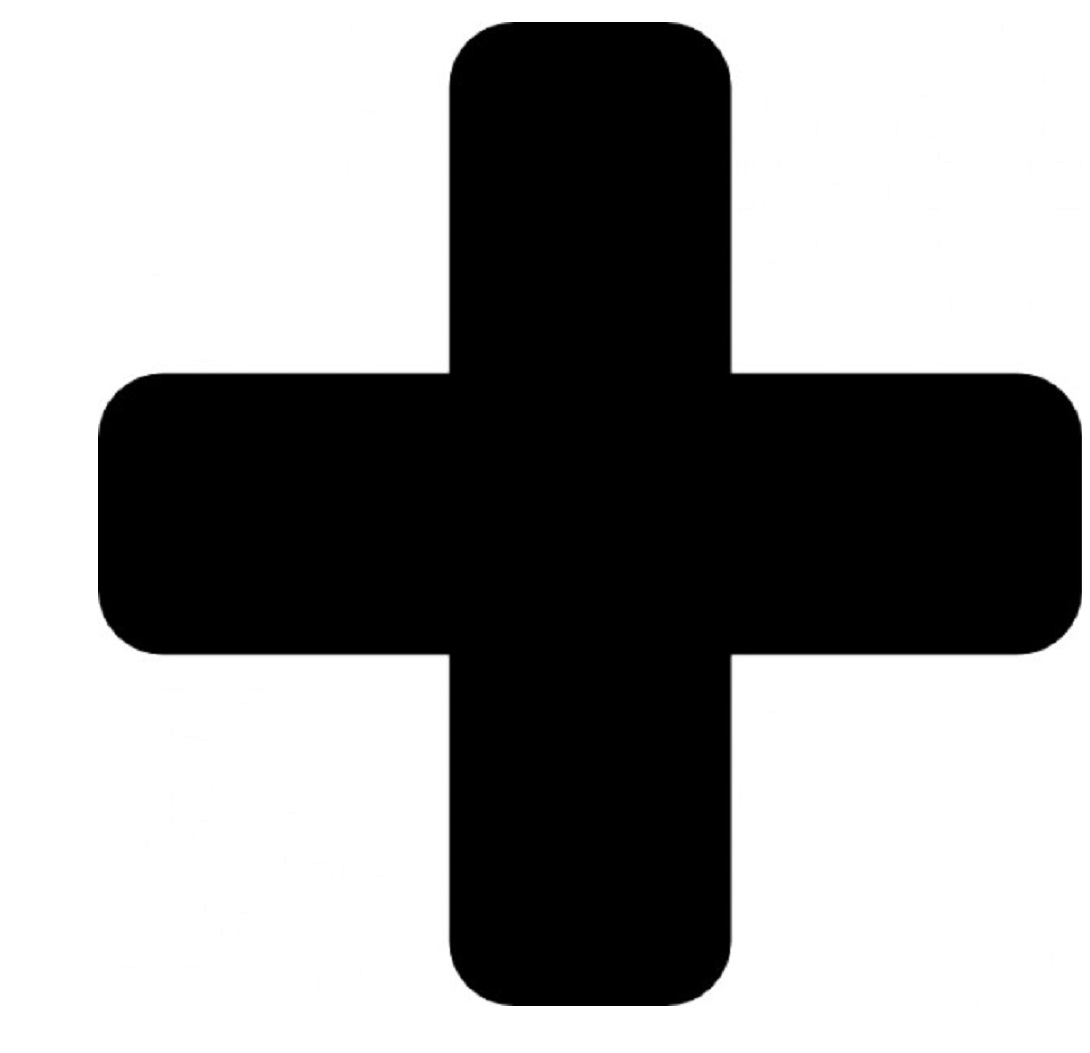
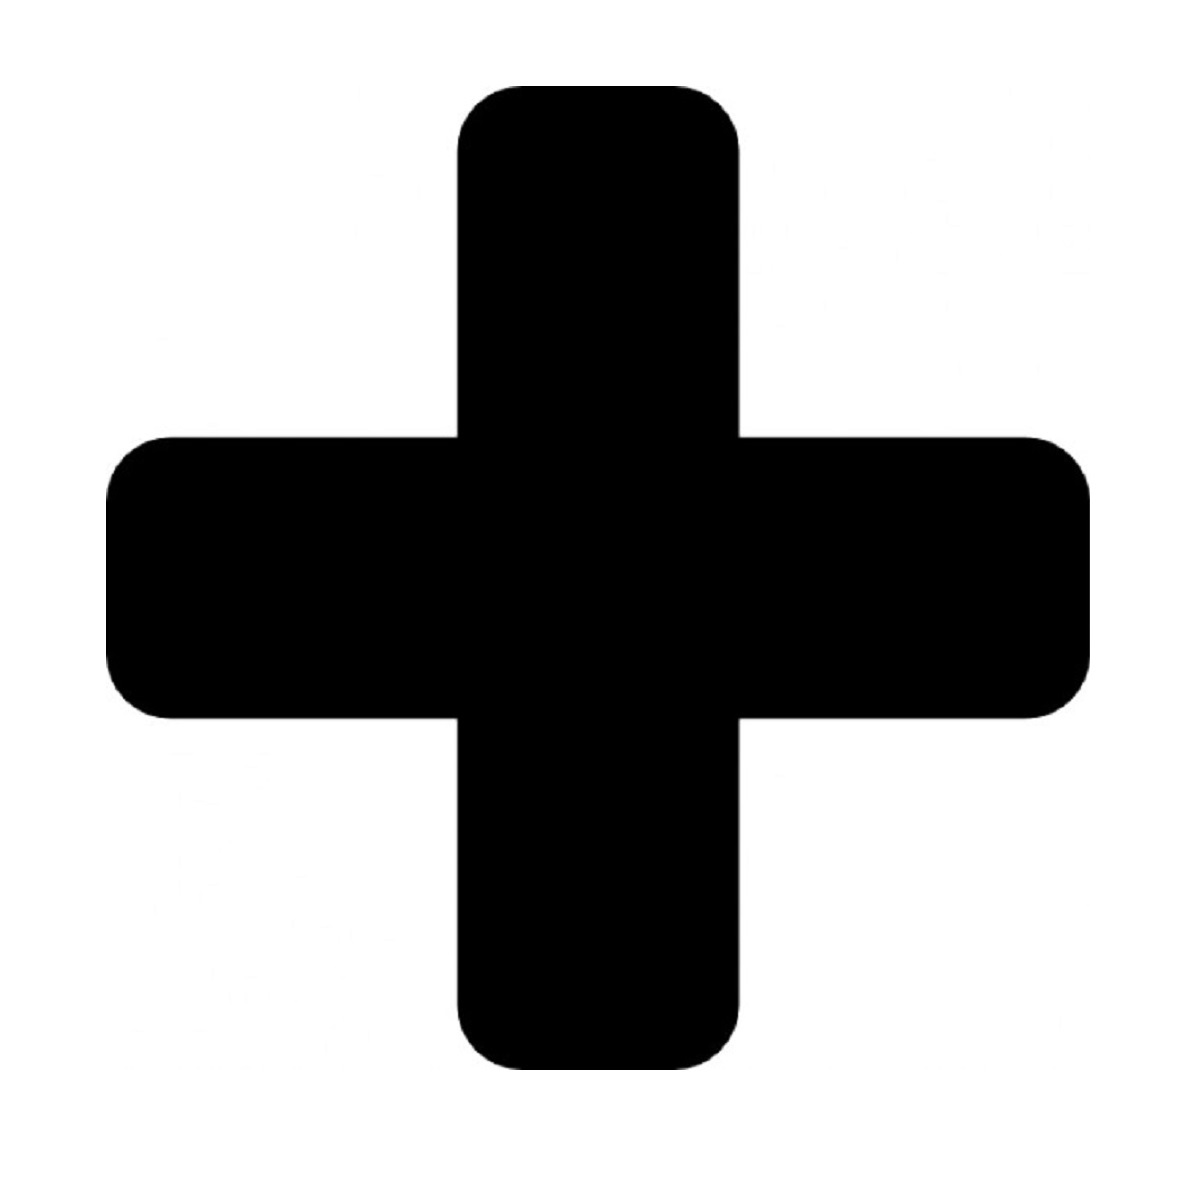
Made images to center inside the card div, plus sign now appears regardless of javascript

Changed region(s): [[0.0936, 0.0, 0.9982, 0.9725]]

diff --git a/online_game_store/ui/templates/ui/gameview.html b/online_game_store/ui/templates/ui/gameview.html
@@ -1,6 +1,22 @@
 {% load staticfiles %}
-<div id="gamesDiv"></div>
+{% static "" as baseUrl %}
+
+<div id="gamesDiv">
+  {% if developer != None %}
+    <div class="col-md-3 col-sm-4 col-xs-6 card-container">
+      <div class="card"><a href="/addnewgame/"><span class=card-link></span></a>
+        <div class="card-image">
+          <img class="img-responsive" src="{{baseUrl}}plus.jpg" align="middle">
+          <span class="game-title">Add a game</span>
+        </div>
+      </div>
+    </div>
+  {% else %}
+  {% endif %}
+
+</div>
 <script>
+
 var articleOffset = 0;
 var timeout = null;
 
@@ -10,16 +26,6 @@ var articleLoader = function(url) {
     $.ajax({
         url: url,
         success: function(data) {
-          {% static "" as baseUrl %}
-          {% if developer != None %}
-            var add;
-            add ='<div class="col-md-3 col-sm-4 col-xs-6 card-container"> <div class="card"> ' +
-            '<a href="/addnewgame/"><span class=card-link></span></a>' +
-            '<div class="card-image"> <img class="img-responsive" src="{{baseUrl}}plus.jpg">' +
-            '<span class="game-title">Add a game</span></div></div></div>';
-            $('#gamesDiv').append(add);
-          {% else %}
-          {% endif %}
           if (data.length > 0) {
               for (var i = 0, total = data.length; i < total; i++) {
                 var description = data[i].description

diff --git a/online_game_store/ui/static/main.css b/online_game_store/ui/static/main.css
@@ -44,6 +44,9 @@ body {
 
 .card .card-image img {
   height: 175px;
+  margin-left: auto;
+  margin-right: auto;
+  display: block;
 }
 
 .game-description {
